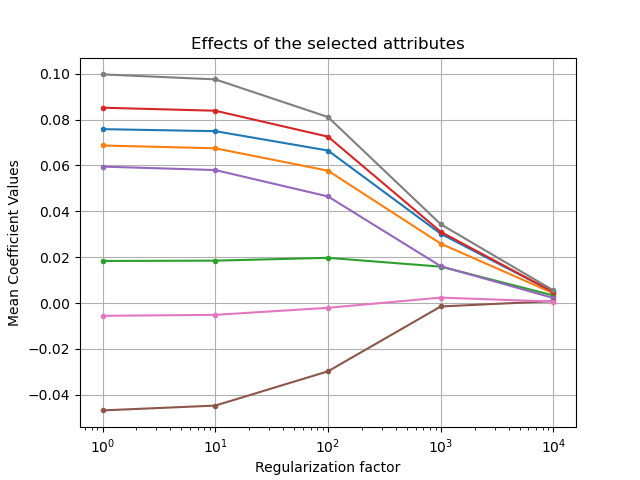
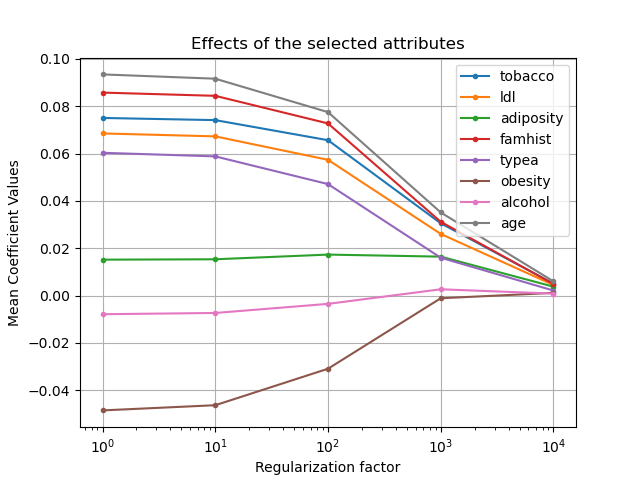
15/11 nu

diff --git a/Projekt 2/regression2.py b/Projekt 2/regression2.py
@@ -15,30 +15,25 @@ import sklearn.linear_model as lm
 from sklearn import model_selection
 from toolbox_02450 import rlr_validate
 from ANN_model import*
-#%%
+
+#%% IMPORT DATA
 filename = 'data.csv'
 df = pd.read_csv(filename)
-#df2 = df.apply(pd.to_numeric,errors='coerce')
-
 raw_data = df.values  
 
 cols = range(1, 10) 
 X = raw_data[:,cols]
 y = raw_data[:,10]
 
+
 #Transform mean=0 og STD=1
-for i in range(len(cols)):
-    X[:,i] = (X[:,i]-np.mean(X[:,i]))/np.std(X[:,i])
+# for i in range(len(cols)):
+#     X[:,i] = (X[:,i]-np.mean(X[:,i]))/np.std(X[:,i])
     
 N, M = X.shape
 
-    
 
-
-# K1 = K2 = 10
-## Crossvalidation
-# Create crossvalidation partition for evaluation
-
+# K1 = K2 = 10 Crossvalidation
 K = 10
 CV = model_selection.KFold(K, shuffle=True)
 
@@ -70,9 +65,7 @@ for train_index, test_index in CV.split(X,y):
     
     opt_val_err, opt_lambda, mean_w_vs_lambda, train_err_vs_lambda, test_err_vs_lambda = rlr_validate(X_train, y_train, lambdas, internal_cross_validation)
 
-    # Standardize outer fold based on training set, and save the mean and standard
-    # deviations since they're part of the model (they would be needed for
-    # making new predictions) - for brevity we won't always store these in the scripts
+    # Standardize outer fold based on training set
     mu[k, :] = np.mean(X_train[:, 1:], 0)
     sigma[k, :] = np.std(X_train[:, 1:], 0)
     
@@ -85,49 +78,19 @@ for train_index, test_index in CV.split(X,y):
     #BASELINE
     # Compute mean squared error without using the input data at all
     Error_train_nofeatures[k] = np.square(y_train-y_train.mean()).sum(axis=0)/y_train.shape[0]
-    Error_test_nofeatures[k] = np.square(y_test-y_test.mean()).sum(axis=0)/y_test.shape[0]
+    Error_test_nofeatures[k] = np.square(y_test-y_test.mean()).sum(axis=0)/y_test.shape[0]  
     
     #2 LEVEL CROSS VALDIDATION
     # Estimate weights for the optimal value of lambda, on entire training set
     lambdaI = opt_lambda * np.eye(M)
-    lambdaI[0,0] = 0 # Do no regularize the bias term
+    lambdaI[0,0] = 0 # Does not regularize the bias term
     w_rlr[:,k] = np.linalg.solve(XtX+lambdaI,Xty).squeeze()
     y_prediction = X_test @ w_rlr[:,k]
     
     # Compute mean squared error with regularization with optimal lambda
     Error_train_rlr[k] = np.square(y_train-X_train @ w_rlr[:,k]).sum(axis=0)/y_train.shape[0]
     Error_test_rlr[k] = np.square(y_test-X_test @ w_rlr[:,k]).sum(axis=0)/y_test.shape[0]
-
-    # # Estimate weights for unregularized linear regression, on entire training set
-    # w_noreg[:,k] = np.linalg.solve(XtX,Xty).squeeze()
-    
-    # # Compute mean squared error without regularization
-    # m = lm.LinearRegression().fit(X_train, y_train)
-    # Error_train[k] = np.square(y_train-m.predict(X_train)).sum()/y_train.shape[0]
-    # Error_test[k] = np.square(y_test-m.predict(X_test)).sum()/y_test.shape[0]
-
-
-
-    # Display the results for the last cross-validation fold
-    if k == K-1:
-        figure(k, figsize=(12,8))
-        subplot(1,2,1)
-        semilogx(lambdas,mean_w_vs_lambda.T[:,1:],'.-') # Don't plot the bias term
-        xlabel('Regularization factor')
-        ylabel('Mean Coefficient Values')
-        grid()
-        # You can choose to display the legend, but it's omitted for a cleaner 
-        # plot, since there are many attributes
-        #legend(attributeNames[1:], loc='best')
-        
-        subplot(1,2,2)
-        title('Optimal lambda: 1e{0}'.format(np.log10(opt_lambda)))
-        loglog(lambdas,train_err_vs_lambda.T,'b.-',lambdas,test_err_vs_lambda.T,'r.-')
-        xlabel('Regularization factor')
-        ylabel('Squared error (crossvalidation)')
-        legend(['Train error','Validation error'])
-        grid()
-#%%    
+  
     # Display Table
     print('Cross validation fold {0}/{1}:'.format(k+1,K))
     print('- ANN h:                            {0}'.format(h_value[k]))
@@ -139,5 +102,4 @@ for train_index, test_index in CV.split(X,y):
 
     k+=1
 
-show()
 

diff --git a/Projekt 2/ANN_model.py b/Projekt 2/ANN_model.py
@@ -13,7 +13,7 @@ import pandas as pd
 from sklearn import model_selection
 from toolbox_02450 import train_neural_net, draw_neural_net
 from scipy import stats
-from inner_loop import ANN_validate
+from annValidation import ANN_validate
 
 #%% IMPORT DATA
 filename = 'data.csv'
@@ -27,7 +27,6 @@ y = X[:,[10]]
 X = X[:,:10]            # CHD Target
 N, M = X.shape
 C = 2
-#attributeNames = np.asarray(df.columns[cols])
 
 # Normalize data
 X = stats.zscore(X) 
@@ -46,7 +45,7 @@ max_iter = 5000
 Error_train_ANN = np.empty((K,1))
 Error_test_ANN = np.empty((K,1))
 errors1 = [] # make a list for storing generalizaition error in each loop
-h_value = []
+h_value = [] # make a list for storing hidden unit in each loop
 
 k=0
 for (k, (train_index, test_index)) in enumerate(CV.split(X,y)): 
@@ -58,7 +57,10 @@ for (k, (train_index, test_index)) in enumerate(CV.split(X,y)):
     X_test = torch.Tensor(X[test_index,:])
     y_test = torch.Tensor(y[test_index])
     
+    # Inner loop
     errors = ANN_validate(X_train, y_train,hidden_units,K)
+    
+    # Extract optimal h and given the right index
     h_opt = []
     #for j in range(0,K):
     h_opt.append(np.argmin(errors))
@@ -70,7 +72,8 @@ for (k, (train_index, test_index)) in enumerate(CV.split(X,y)):
         h_opt[0] = 1
     if h_opt[0]%3 == 2: 
         h_opt[0] = 2
-        
+    
+    # Define model with optimal h
     model = lambda: torch.nn.Sequential(
                         torch.nn.Linear(M, hidden_units[h_opt[0]]), #M features to n_hidden_units
                         torch.nn.Tanh(),   # 1st transfer function,
@@ -95,4 +98,4 @@ for (k, (train_index, test_index)) in enumerate(CV.split(X,y)):
     se = (y_test_est.float()-y_test.float())**2 # squared error
     mse = (sum(se).type(torch.float)/len(y_test)).data.numpy() #mean
     errors1.append(mse) # store error rate for current CV fold 
-    h_value.append(hidden_units[h_opt[0]])
+    h_value.append(hidden_units[h_opt[0]]) # store hidden unit for current CV fold 

diff --git a/regression1.py b/regression1.py
@@ -24,17 +24,16 @@ from sklearn import model_selection
 # IMPORTING DATA
 filename = 'data.csv'
 df = pd.read_csv(filename)
-
-
 raw_data = df.values  
 
 cols = range(1, 10) 
 X = raw_data[:,cols]
 y = raw_data[:,10]
+attributeNames = np.asarray(df.columns[cols])
 
 #Transforming mean=0 og STD=1
-for i in range(len(cols)):
-    X[:,i] = (X[:,i]-np.mean(X[:,i]))/np.std(X[:,i])
+# for i in range(len(cols)):
+#     X[:,i] = (X[:,i]-np.mean(X[:,i]))/np.std(X[:,i])
 
 # K = 10 fold Crossvalidation
 cvf=10
@@ -67,7 +66,6 @@ for train_index, test_index in CV.split(X,y):
     XtX = X_train.T @ X_train
     for l in range(0,len(lambdas)):
         # Compute parameters for current value of lambda and current CV fold
-        # note: "linalg.lstsq(a,b)" is substitue for Matlab's left division operator "\"
         lambdaI = lambdas[l] * np.eye(M)
         lambdaI[0,0] = 0 # remove bias regularization
         w[:,f,l] = np.linalg.solve(XtX+lambdaI,Xty).squeeze()
@@ -103,5 +101,6 @@ title('Effects of the selected attributes')
 semilogx(lambdas,mean_w_vs_lambda.T[:,1:],'.-') # Don't plot the bias term
 xlabel('Regularization factor')
 ylabel('Mean Coefficient Values')
+legend(attributeNames[1:], loc='best')
 grid()
 savefig('weigth1.png')

diff --git a/Projekt 2/annValidation.py b/Projekt 2/annValidation.py
@@ -20,7 +20,7 @@ def ANN_validate(X,y,hidden_units,cvf):
     max_iter = 5000
 
     # K-fold crossvalidation
-    K = cvf                 # only three folds to speed up this example
+    K = cvf                 
     CV = model_selection.KFold(K, shuffle=True)
 
 
@@ -60,6 +60,6 @@ def ANN_validate(X,y,hidden_units,cvf):
             se = (y_test_est.float()-y_test.float())**2 # squared error
             mse = (sum(se).type(torch.float)/len(y_test)).data.numpy() #mean
             errors.append(mse) # store error rate for current CV fold 
-            #errors.append(h_index)
+        
             
     return errors

diff --git a/Projekt 2/Statistically_evaluation_1.py b/Projekt 2/Statistically_evaluation_1.py
@@ -16,7 +16,7 @@ from regression2 import y_prediction, y_predict_nofeature
 # perform statistical comparison of the models
 # compute z with squared error.
 
-#y_test_est = y_test_est.detach().numpy()
+y_test_est = y_test_est.detach().numpy()
 zA = np.abs(y_test - y_test_est) ** 2
 
 # compute confidence interval of model A
